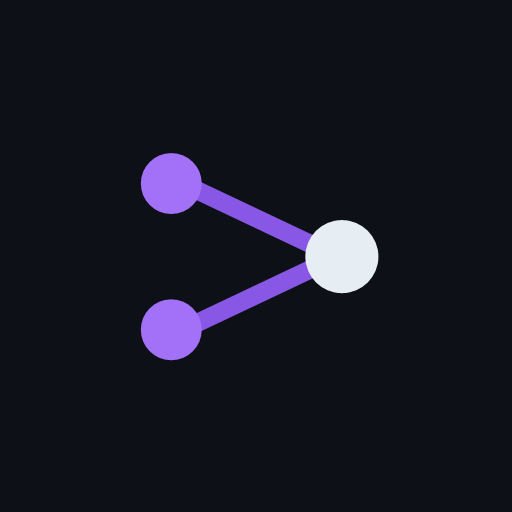
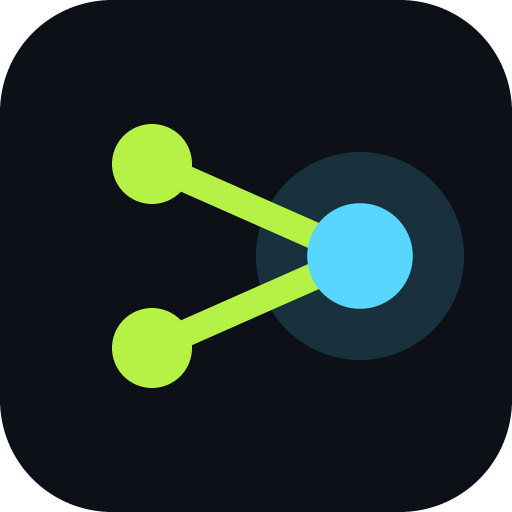
Ícone na identidade + backbone de economia (bairro repetível + conquistas)
Ícone:
- favicon.svg e os 3 PNGs (192/512/maskable) refeitos na identidade do
  jogo (glifo de rede neural neon lime/ciano em fundo #0d1117),
  rasterizados em Node sem dependência. Verificado por pixel.

v0.2 — backbone de economia + retenção (base p/ falência/agiota/ferrugem):
- Contratos do bairro (GDD §7.2): 2 contratos-padrão REPETÍVEIS
  (Mercadinho, Sorveteria) que reusam tarefas de bosses já verificados —
  renda contínua + replay. Não entram em doneIds, não cobram custo fixo
  (só boss = "mês"), desbloqueiam ao dominar a skill correspondente.
- completeContract: distingue boss (avança mês, cobra aluguel, vira
  dominada) de repetível/relâmpago (giga avulsa, só paga).
- Conquistas (GDD §8): 8 conquistas com desbloqueio automático + toast e
  painel nas configurações (bloqueadas mostram "???").
- Estado ganha achievements[] (tolerante a saves antigos, sem bump).

Verificado end-to-end: conquistas disparam no load e persistem; bairro
paga (+R$110) sem virar entregue nem cobrar aluguel; gating por skill;
ícone renderiza certo; build verde, sem erros de console.

diff --git a/src/game/content.ts b/src/game/content.ts
@@ -46,6 +46,7 @@ export const SKILLS: SkillDef[] = [
 export const skillById = (id: string) => SKILLS.find((s) => s.id === id)
 export const skillOfContract = (contractId: string) => SKILLS.find((s) => s.contractId === contractId)
 export const skillOfKata = (kataId: string) => SKILLS.find((s) => s.kataId === kataId)
+export const isKata = (id: string) => id.startsWith('kata-')
 
 // ---------------------------------------------------------------- Setups Python
 const SETUP_LER = `import io
@@ -555,11 +556,75 @@ def prever(dados_treino, dados_novos):
   },
 ]
 
+// ---------------------------------------------------------------- Contratos do bairro (repetíveis)
+// GDD §7.2: contrato-padrão que dá renda contínua + replay. Reusa a TAREFA de um boss
+// já verificado (mesmo setup/testes), só troca a história — corretude herdada.
+const clone = (bossId: string, over: Partial<Contract>): Contract => {
+  const base = CONTRACTS.find((c) => c.id === bossId)!
+  return { ...base, repeatable: true, interrogation: [], ...over }
+}
+
+export const REPEATABLE: Contract[] = [
+  clone('boletim-padaria', {
+    id: 'bairro-mercadinho',
+    emoji: '🏪',
+    titulo: 'Mercadinho da Esquina',
+    briefing:
+      'Correu a fama do seu boletim. A dona do mercadinho quer a mesma coisa: a média de ' +
+      'vendas do caderno dela. Trabalho de rotina, paga na hora.',
+    metaLabel: 'Devolver a média de vendas',
+    payout: 110,
+    reputacao: 2,
+    prereqContractIds: ['boletim-padaria'],
+  }),
+  clone('analise-clima', {
+    id: 'bairro-sorveteria',
+    emoji: '🍦',
+    titulo: 'Sorveteria do Gelo',
+    briefing:
+      'A sorveteria jura que vende mais no calor. Rode a mesma análise de correlação entre ' +
+      'temperatura e vendas pra eles. Serviço rápido, cliente fiel.',
+    metaLabel: 'Devolver a correlação temperatura × vendas',
+    payout: 150,
+    reputacao: 2,
+    prereqContractIds: ['analise-clima'],
+  }),
+]
+
+// ---------------------------------------------------------------- Conquistas (GDD §8)
+export interface Achievement {
+  id: string
+  nome: string
+  desc: string
+  test: (g: GameState) => boolean
+}
+
+const skillBossDone = (g: GameState) =>
+  SKILLS.filter((s) => g.contracts.doneIds.includes(s.contractId)).length
+
+export const ACHIEVEMENTS: Achievement[] = [
+  { id: 'primeira-entrega', nome: 'Primeiro cliente', desc: 'Entregue seu primeiro contrato.', test: (g) => g.contracts.doneIds.length >= 1 },
+  { id: 'primeira-skill', nome: 'Aprendiz', desc: 'Domine sua primeira skill.', test: (g) => skillBossDone(g) >= 1 },
+  { id: 'meia-arvore', nome: 'Pegando o jeito', desc: 'Domine metade do Tier 1.', test: (g) => skillBossDone(g) >= 2 },
+  { id: 'tier1-completo', nome: 'Fundamentos sólidos', desc: 'Domine as 4 skills do Tier 1.', test: (g) => skillBossDone(g) >= SKILLS.length },
+  { id: 'turbinou', nome: 'Upgrade!', desc: 'Compre seu primeiro hardware melhor.', test: (g) => g.hardwareLevel >= 1 },
+  { id: 'rack', nome: 'Sala-cofre', desc: 'Monte o rack de GPUs.', test: (g) => g.hardwareLevel >= 2 },
+  { id: 'ritmo', nome: 'No embalo', desc: 'Chegue a um streak de 3.', test: (g) => g.streak.count >= 3 },
+  { id: 'faxineiro', nome: 'Dados limpos', desc: 'Domine Limpar Dados.', test: (g) => g.contracts.doneIds.includes('faxina-cadastro') },
+]
+
+/** Conquistas satisfeitas pelo estado mas ainda não registradas. */
+export function pendingAchievements(g: GameState): Achievement[] {
+  return ACHIEVEMENTS.filter((a) => a.test(g) && !g.achievements.includes(a.id))
+}
+
 // ---------------------------------------------------------------- Regras puras
 export const contractById = (id: string): Contract | undefined =>
   id === RELAMPAGO.id
     ? RELAMPAGO
-    : (CONTRACTS.find((c) => c.id === id) ?? KATAS.find((c) => c.id === id))
+    : (CONTRACTS.find((c) => c.id === id) ??
+      KATAS.find((c) => c.id === id) ??
+      REPEATABLE.find((c) => c.id === id))
 
 export const isDone = (g: GameState, id: string) => g.contracts.doneIds.includes(id)
 
@@ -611,7 +676,8 @@ export function completeContract(
   c: Contract,
   interrogationScore = 1,
 ): { next: GameState; earned: number; rent: number } {
-  const isBoss = c.id !== RELAMPAGO.id
+  const isRelampago = c.id === RELAMPAGO.id
+  const isBoss = !c.repeatable && !isRelampago // boss = prova única (avança o "mês" e cobra aluguel)
   if (isBoss && isDone(g, c.id)) return { next: g, earned: 0, rent: 0 }
 
   const streakDay = today()
@@ -622,8 +688,9 @@ export function completeContract(
 
   // pagamento penaliza erros no interrogatório (mín. 50%), arredondado
   const earned = Math.round(c.payout * (0.5 + 0.5 * interrogationScore))
-  const turn = g.turn + 1
-  const rent = RENT_PER_TURN
+  // Só o boss é um "mês" com custo fixo; bairro/relâmpago são gigas avulsas.
+  const rent = isBoss ? RENT_PER_TURN : 0
+  const turn = isBoss ? g.turn + 1 : g.turn
   const doneIds = isBoss ? [...g.contracts.doneIds, c.id] : g.contracts.doneIds
 
   const next: GameState = {
@@ -634,7 +701,7 @@ export function completeContract(
     turn,
     rentPaidUpTo: turn,
     contracts: { ...g.contracts, doneIds },
-    relampagoLastDayISO: isBoss ? g.relampagoLastDayISO : streakDay,
+    relampagoLastDayISO: isRelampago ? streakDay : g.relampagoLastDayISO,
   }
   return { next, earned, rent }
 }

diff --git a/src/styles.css b/src/styles.css
@@ -549,6 +549,58 @@ button {
   filter: drop-shadow(0 0 8px rgba(255, 191, 71, 0.7));
 }
 
+/* contratos do bairro (repetíveis) */
+.bairro-head {
+  margin-top: 10px;
+}
+.contract-card.repeatable {
+  border-style: dashed;
+  border-color: rgba(88, 214, 255, 0.35);
+}
+
+/* conquistas (sheet de configurações) */
+.cfg-sec {
+  margin-top: 16px;
+  margin-bottom: 8px;
+}
+.conquistas {
+  list-style: none;
+  margin: 0;
+  padding: 0;
+  display: flex;
+  flex-direction: column;
+  gap: 6px;
+  max-height: 34vh;
+  overflow-y: auto;
+}
+.conquistas li {
+  display: flex;
+  align-items: center;
+  gap: 10px;
+  padding: 8px 10px;
+  border: 1px solid var(--line);
+  border-radius: var(--r-sm);
+  background: rgba(0, 0, 0, 0.2);
+}
+.conquistas li.got {
+  border-color: rgba(182, 241, 69, 0.4);
+}
+.conquistas li.locked {
+  opacity: 0.55;
+}
+.cq-ico {
+  font-size: 1.1rem;
+}
+.conquistas b {
+  display: block;
+  font-family: var(--mono);
+  font-size: 0.82rem;
+}
+.conquistas small {
+  color: var(--muted);
+  font-size: 0.76rem;
+}
+
 /* sheet de configurações */
 .sheet-back {
   position: fixed;

diff --git a/src/screens/ContractsScreen.tsx b/src/screens/ContractsScreen.tsx
@@ -4,6 +4,8 @@ import type { Contract } from '../engine/contracts'
 import {
   CONTRACTS,
   RELAMPAGO,
+  REPEATABLE,
+  isAvailable,
   isDone,
   relampagoAvailable,
   skillOfContract,
@@ -140,6 +142,34 @@ export function ContractsScreen({
           />
         )
       })}
+
+      {(() => {
+        const bairro = REPEATABLE.filter((c) => isAvailable(game, c))
+        if (bairro.length === 0) return null
+        return (
+          <>
+            <div className="screen-head bairro-head">
+              <h3 className="panel-title">Contratos do bairro</h3>
+              <p className="muted">Serviços de rotina que pagam na hora e você pode refazer sempre.</p>
+            </div>
+            {bairro.map((c) => (
+              <article key={c.id} className="contract-card is-available repeatable">
+                <header className="cc-head">
+                  <span className="cc-emoji">{c.emoji}</span>
+                  <div className="cc-titles">
+                    <h3 className="panel-title">{c.titulo}</h3>
+                    <span className="chip">Repetível · {money(c.payout)}</span>
+                  </div>
+                </header>
+                <p className="cc-brief">{c.briefing}</p>
+                <button className="btn btn-primary" onClick={() => open(c)}>
+                  Pegar serviço (+{money(c.payout)}) →
+                </button>
+              </article>
+            ))}
+          </>
+        )
+      })()}
     </section>
   )
 }

diff --git a/src/App.tsx b/src/App.tsx
@@ -8,7 +8,14 @@ import { SkillTreeScreen } from './screens/SkillTreeScreen'
 import { WorkbenchScreen } from './screens/WorkbenchScreen'
 import { RunaScreen } from './screens/RunaScreen'
 import { Onboarding } from './screens/Onboarding'
-import { completeRune, contractById, skillById, skillOfKata } from './game/content'
+import {
+  completeRune,
+  contractById,
+  isKata,
+  pendingAchievements,
+  skillById,
+  skillOfKata,
+} from './game/content'
 import {
   exportSave,
   importSave,
@@ -26,7 +33,6 @@ export default function App() {
   const [game, setGame] = useState<GameState | null>(null)
   const [view, setView] = useState<View>('lab')
   const [runa, setRuna] = useState<{ skillId: string; kind: RuneKind } | null>(null)
-  const [wbKata, setWbKata] = useState(false) // workbench aberto como kata (runa do código)?
   const [cameFromDesk, setCameFromDesk] = useState(false)
   const [notice, setNotice] = useState<string | null>(null)
   const clientRef = useRef<PyodideClient | null>(null)
@@ -41,6 +47,15 @@ export default function App() {
     if (!game) return
     const t = setTimeout(() => void saveGame(game).catch(() => undefined), 800)
     return () => clearTimeout(t)
+  }, [game])
+
+  // Conquistas: destrava as satisfeitas pelo estado atual e avisa (GDD §8).
+  useEffect(() => {
+    if (!game) return
+    const novas = pendingAchievements(game)
+    if (novas.length === 0) return
+    setGame({ ...game, achievements: [...game.achievements, ...novas.map((a) => a.id)] })
+    setNotice(`🏆 Conquista: ${novas.map((a) => a.nome).join(' · ')}`)
   }, [game])
 
   async function onImportFile(file: File) {
@@ -109,12 +124,10 @@ export default function App() {
                 onOpenKata={(skillId) => {
                   const kataId = skillById(skillId)?.kataId
                   if (!kataId) return
-                  setWbKata(true)
                   setGame({ ...game, contracts: { ...game.contracts, activeId: kataId } })
                   setView('workbench')
                 }}
                 onOpenBoss={(contractId) => {
-                  setWbKata(false)
                   setGame({ ...game, contracts: { ...game.contracts, activeId: contractId } })
                   setView('workbench')
                 }}
@@ -134,7 +147,7 @@ export default function App() {
             {view === 'workbench' && active && clientRef.current && (
               <WorkbenchScreen
                 contract={active}
-                mode={wbKata ? 'kata' : 'boss'}
+                mode={isKata(active.id) ? 'kata' : 'boss'}
                 client={clientRef.current}
                 pyState={pyState}
                 game={game}
@@ -143,7 +156,6 @@ export default function App() {
                 onKataDone={() => {
                   const s = skillOfKata(active.id)
                   if (s) setGame(completeRune(game, s.id, 'codigo'))
-                  setWbKata(false)
                   setView('skills')
                 }}
               />

diff --git a/src/screens/LabScreen.tsx b/src/screens/LabScreen.tsx
@@ -3,6 +3,7 @@ import type { GameState } from '../persistence/saveGame'
 import type { View } from '../nav'
 import { GarageScene, type Hotspot } from './GarageScene'
 import {
+  ACHIEVEMENTS,
   RENT_PER_TURN,
   SKILLS,
   buyHardware,
@@ -136,6 +137,24 @@ export function LabScreen({
                 ↳ Importar save
               </button>
             </div>
+            <h3 className="panel-title cfg-sec">
+              Conquistas · {game.achievements.length}/{ACHIEVEMENTS.length}
+            </h3>
+            <ul className="conquistas">
+              {ACHIEVEMENTS.map((a) => {
+                const got = game.achievements.includes(a.id)
+                return (
+                  <li key={a.id} className={got ? 'got' : 'locked'}>
+                    <span className="cq-ico">{got ? '🏆' : '🔒'}</span>
+                    <span>
+                      <b>{a.nome}</b>
+                      <small>{got ? a.desc : '???'}</small>
+                    </span>
+                  </li>
+                )
+              })}
+            </ul>
+
             <p className="footnote left">build {__BUILD_ID__}</p>
             <button className="btn btn-primary" onClick={() => setSettingsOpen(false)}>
               Fechar

diff --git a/src/screens/WorkbenchScreen.tsx b/src/screens/WorkbenchScreen.tsx
@@ -105,6 +105,10 @@ export function WorkbenchScreen({
             <>
               Runa do Código · treino, não paga · Meta: <b>{contract.metaLabel}</b>
             </>
+          ) : contract.repeatable ? (
+            <>
+              Meta: <b>{contract.metaLabel}</b> · Paga {money(contract.payout)} · contrato do bairro
+            </>
           ) : (
             <>
               Meta: <b>{contract.metaLabel}</b> · Paga até {money(contract.payout)} · Custo do mês{' '}
@@ -221,9 +225,11 @@ export function WorkbenchScreen({
             <b className="amber">+{money(reward.earned)}</b> no caixa e{' '}
             <b>+{reward.rep} de reputação</b>.
           </p>
-          <p className="muted">
-            Custo fixo do mês descontado: −{money(reward.rent)} (energia + aluguel).
-          </p>
+          {reward.rent > 0 && (
+            <p className="muted">
+              Custo fixo do mês descontado: −{money(reward.rent)} (energia + aluguel).
+            </p>
+          )}
           <div className="assist-row">
             <button className="btn btn-primary" onClick={() => onNavigate('lab')}>
               Voltar à garagem →

diff --git a/src/persistence/saveGame.ts b/src/persistence/saveGame.ts
@@ -23,6 +23,7 @@ export interface GameState {
   rentPaidUpTo: number // último turno em que o custo fixo já foi cobrado
   onboarded: boolean // já viu a introdução (o tio, o bilhete)?
   relampagoLastDayISO: string | null // controle do contrato-relâmpago diário
+  achievements: string[] // conquistas desbloqueadas (GDD §8)
 }
 
 const SAVE_KEY = 'save'
@@ -42,6 +43,7 @@ export function newGameState(): GameState {
     rentPaidUpTo: 0,
     onboarded: false,
     relampagoLastDayISO: null,
+    achievements: [],
   }
 }
 
@@ -102,7 +104,8 @@ function migrateOld(v: unknown): GameState | null {
 export async function loadGame(): Promise<GameState | null> {
   try {
     const raw = await kvGet<unknown>(SAVE_KEY)
-    if (isGameState(raw)) return raw
+    // achievements chegou depois do v3; normaliza saves que não o têm.
+    if (isGameState(raw)) return { ...raw, achievements: raw.achievements ?? [] }
     return migrateOld(raw)
   } catch {
     return null // IndexedDB indisponível (ex.: navegação privada) → começa do zero

diff --git a/src/engine/contracts/index.ts b/src/engine/contracts/index.ts
@@ -35,6 +35,8 @@ export interface Contract {
   solution: string
   /** Interrogatório do cliente (GDD §5.2): erros reduzem o pagamento. */
   interrogation: InterrogationQuestion[]
+  /** Contrato-padrão repetível (GDD §7.2): não conta como boss, pode refazer por renda. */
+  repeatable?: boolean
 }
 
 export interface InterrogationQuestion {